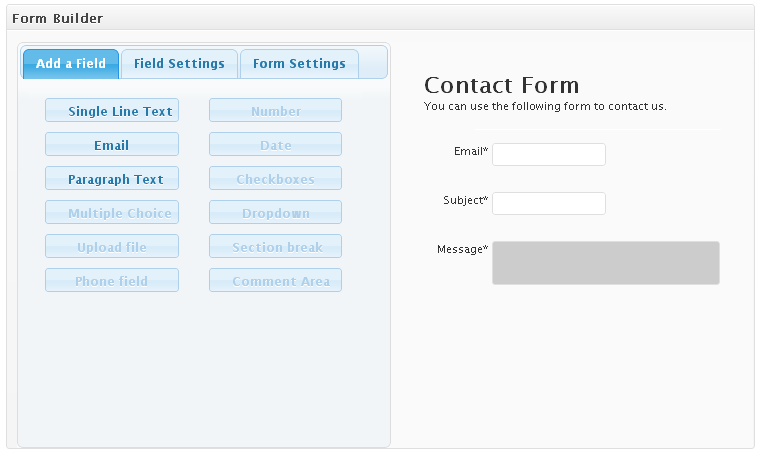
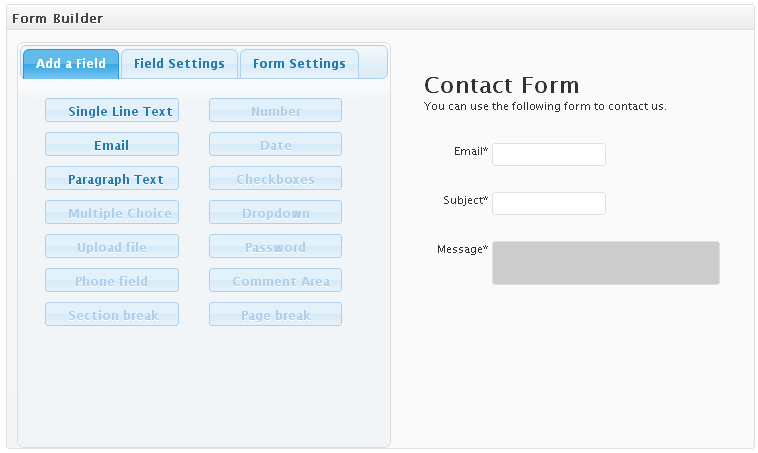
New features and validations options in the form builder.
git-svn-id: https://plugins.svn.wordpress.org/cp-easy-form-builder/trunk@744911 b8457f37-d9ea-0310-8a92-e5e31aec5664

Changed region(s): [[0.2731, 0.6799, 0.4551, 0.7108], [0.0607, 0.6799, 0.2427, 0.7108], [0.3034, 0.5254, 0.4248, 0.5563]]

diff --git a/js/fbuilderf.jquery.js b/js/fbuilderf.jquery.js
@@ -327,27 +327,33 @@ jQuery(function(){
           return value;
         }
         function showHideDep(){
+            function inArray(needle, haystack) {
+                for(var i = 0; i < haystack.length; i++) {
+                    if(haystack[i] == needle) return true;
+                }
+                return false;
+            }
+            var used = new Array();
             $(".depItem").each(function() {
                 var item = $(this);
-                var d = item.attr("dep").split(",");
-                for (i=0;i<d.length;i++)
-		        {
-		            if (d[i]!="")
+                try {
+                    var d = item.attr("dep").split(",");
+                    for (i=0;i<d.length;i++)
 		            {
-		                try {
-		                    if (item.is(':checked') || item.is(':selected'))
-		                    {
-		                        $("#"+d[i]).parents(".fields").css("display","");
-		                        $("#"+d[i]).attr("name",$("#"+d[i]).attr("name").replace("__dep",""));
-		                    }    
-		                    else
-		                    {
-		                        $("#"+d[i]).parents(".fields").css("display","none");
-		                        $("#"+d[i]).attr("name",$("#"+d[i]).attr("name")+"__dep");
-		                    }    
-		                }catch(e){}       
+		                if (d[i]!="" && !inArray(d[i],used))
+		                {
+		                    try {
+		                        if ((item.is(':checked') || item.is(':selected') ))
+		                        {
+		                            $("#"+d[i]).parents(".fields").css("display","");
+		                            used[used.length] = d[i];
+		                        }    
+		                        else
+		                            $("#"+d[i]).parents(".fields").css("display","none");
+		                    }catch(e){}       
+		                }
 		            }
-		        }
+		        }catch(e){}    
 		    });
         }
 		reloadItemsPublic = function() {
@@ -385,13 +391,7 @@ jQuery(function(){
                     $( "#"+items[i].name ).datepicker( "option", "minDate", items[i].minDate );
                     $( "#"+items[i].name ).datepicker( "option", "maxDate", items[i].maxDate );
                     $( "#"+items[i].name ).datepicker( "option", "defaultDate", items[i].defaultDate );
-				}	
-				$(".depItem").bind("click", function() {
-			        showHideDep();
-			    });
-			    $(".depItemSel").bind("change", function() {
-			        showHideDep();
-			    });
+				}
 			}
 			if (page>0)
 			{
@@ -454,7 +454,13 @@ jQuery(function(){
 				});//{required: true, range: [11, 22]}
 
 
-
+                $("#fieldlist").append('<script>jQuery(function(){CalcField.defaultCalc("#cp_calculatedfieldsf_pform");});</script>');	
+				$(".depItem").bind("click", function() {
+			        showHideDep();
+			    });
+			    $(".depItemSel").bind("change", function() {
+			        showHideDep();
+			    });
 			}
 		}
 		var showSettings= {
@@ -744,13 +750,18 @@ jQuery(function(){
 				ftype:"ftextarea",
 				predefined:"",
 				required:false,
-				size:"medium",
+				size:"medium",				
+				minlength:"",
+				maxlength:"",
 				display:function(){
 					return '<div class="fields" id="field-'+this.index+'"><div class="arrow ui-icon ui-icon-play "></div><div class="remove ui-icon ui-icon-trash "></div><label>'+this.title+''+((this.required)?"*":"")+'</label><div class="dfield"><textarea class="field disabled '+this.size+'">'+this.predefined+'</textarea><span class="uh">'+this.userhelp+'</span></div><div class="clearer"></div></div>';
 				},
 				show:function(){
-					return '<div class="fields '+this.csslayout+'" id="field-'+this.index+'"><label>'+this.title+''+((this.required)?"*":"")+'</label><div class="dfield"><textarea id="'+this.name+'" name="'+this.name+'" class="field '+this.size+((this.required)?" required":"")+'">'+this.predefined+'</textarea><span class="uh">'+this.userhelp+'</span></div><div class="clearer"></div></div>';
-				}
+					return '<div class="fields '+this.csslayout+'" id="field-'+this.index+'"><label>'+this.title+''+((this.required)?"*":"")+'</label><div class="dfield"><textarea id="'+this.name+'" name="'+this.name+'" minlength="'+(this.minlength)+'" maxlength="'+htmlEncode(this.maxlength)+'" class="field '+this.size+((this.required)?" required":"")+'">'+this.predefined+'</textarea><span class="uh">'+this.userhelp+'</span></div><div class="clearer"></div></div>';
+				},
+                showSpecialDataInstance: function() {
+                    return '<div class="column"><label>Min length/characters</label><br /><input name="sMinlength" id="sMinlength" value="'+this.minlength+'"></div><div class="column"><label>Max length/characters</label><br /><input name="sMaxlength" id="sMaxlength" value="'+this.maxlength+'"></div><div class="clearer"></div>';
+                }
 		});
 		var ffile=function(){};
 		$.extend(ffile.prototype,ffields.prototype,{
@@ -876,7 +887,7 @@ jQuery(function(){
 					            attrDep += ","+d[i][j];    
 					        }
 					    }
-						str += '<div class="'+this.layout+'"><input name="'+this.name+'[]" '+((classDep!="")?"dep=\""+attrDep+"\"":"")+' id="'+this.name+'" class="field'+classDep+' group '+((this.required)?" required":"")+'" value="'+htmlEncode(this.choicesVal[i])+'" type="checkbox" '+((this.choiceSelected[i])?"checked":"")+'/> <span>'+this.choices[i]+'</span></div>';
+						str += '<div class="'+this.layout+'"><input name="'+this.name+'[]" '+((classDep!="")?"dep=\""+attrDep+"\"":"")+' id="'+this.name+'" class="field depItem group '+((this.required)?" required":"")+'" value="'+htmlEncode(this.choicesVal[i])+'" type="checkbox" '+((this.choiceSelected[i])?"checked":"")+'/> <span>'+this.choices[i]+'</span></div>';
 					}	
 					return '<div class="fields '+this.csslayout+'" id="field-'+this.index+'"><label>'+this.title+''+((this.required)?"*":"")+'</label><div class="dfield">'+str+'<span class="uh">'+this.userhelp+'</span></div><div class="clearer"></div></div>';
 				},
@@ -945,7 +956,7 @@ jQuery(function(){
 					            attrDep += ","+d[i][j];    
 					        }
 					    }
-					    str += '<div class="'+this.layout+'"><input name="'+this.name+'" id="'+this.name+'" '+((classDep!="")?"dep=\""+attrDep+"\"":"")+' class="field'+classDep+' group '+((this.required)?" required":"")+'" value="'+htmlEncode(this.choicesVal[i])+'" type="radio" i="'+i+'"  '+((this.choicesVal[i]==this.choiceSelected)?"checked":"")+'/> <span>'+this.choices[i]+'</span></div>';
+					    str += '<div class="'+this.layout+'"><input name="'+this.name+'" id="'+this.name+'" '+((classDep!="")?"dep=\""+attrDep+"\"":"")+' class="field depItem group '+((this.required)?" required":"")+'" value="'+htmlEncode(this.choicesVal[i])+'" type="radio" i="'+i+'"  '+((this.choicesVal[i]==this.choiceSelected)?"checked":"")+'/> <span>'+this.choices[i]+'</span></div>';
 					}	
 					return '<div class="fields '+this.csslayout+'" id="field-'+this.index+'"><label>'+this.title+''+((this.required)?"*":"")+'</label><div class="dfield">'+str+'<span class="uh">'+this.userhelp+'</span></div><div class="clearer"></div></div>';  
 				},
@@ -1013,7 +1024,7 @@ jQuery(function(){
 					            attrDep += ","+d[i][j];    
 					        }
 					    }
-					    str += '<option '+((classDep!="")?"dep=\""+attrDep+"\"":"")+' '+((this.choiceSelected==this.choicesVal[i])?"selected":"")+' class="'+classDep+'" value="'+htmlEncode(this.choicesVal[i])+'">'+l[i]+'</option>';
+					    str += '<option '+((classDep!="")?"dep=\""+attrDep+"\"":"")+' '+((this.choiceSelected==this.choicesVal[i])?"selected":"")+' class="depItem" value="'+htmlEncode(this.choicesVal[i])+'">'+l[i]+'</option>';
 					}
 					return '<div class="fields '+this.csslayout+'" id="field-'+this.index+'"><label>'+this.title+''+((this.required)?"*":"")+'</label><div class="dfield"><select id="'+this.name+'" name="'+this.name+'" class="field '+classDep+'Sel '+this.size+((this.required)?" required":"")+'" >'+str+'</select><span class="uh">'+this.userhelp+'</span></div><div class="clearer"></div><div class="clearer"></div></div>';
 				},

diff --git a/css/stylepublic.css b/css/stylepublic.css
@@ -66,7 +66,7 @@ z-index:1000;
 .cpp_form { text-align:left}
 .pbreak{display:none}
 .pbreak.pb0{display:block}
-.pbreak .pbPrevious,.pbreak .pbNext,.pbSubmit{background:#ccc;display:block;float:left;cursor:pointer;margin:30px 10px 0px 0px;padding:5px 20px}
+.pbreak .pbPrevious,.pbreak .pbNext,.pbSubmit{background:#ccc;color:#000;display:block;float:left;cursor:pointer;margin:30px 10px 0px 0px;padding:5px 20px}
 .pbreak.pb0 .pbPrevious{display:none}
 .pbreak.pbEnd .pbNext{display:none}
 .ignore{border:5px solid black}

diff --git a/cp_easy_form_builder.php b/cp_easy_form_builder.php
@@ -235,14 +235,14 @@ function cp_easyform_get_public_form() {
         
         wp_localize_script('cp_easyform_builder_script', 'cp_easyform_fbuilder_config', array('obj'  	=>
         '{"pub":true,"messages": {
-        	                	"required": "'.str_replace(array('"', "'"),array('\\"', "\\'"),cp_easyform_get_option('vs_text_is_required', CP_EASYFORM_DEFAULT_vs_text_is_required)).'",
-        	                	"email": "'.str_replace(array('"', "'"),array('\\"', "\\'"),cp_easyform_get_option('vs_text_is_email', CP_EASYFORM_DEFAULT_vs_text_is_email)).'",
-        	                	"datemmddyyyy": "'.str_replace(array('"', "'"),array('\\"', "\\'"),cp_easyform_get_option('vs_text_datemmddyyyy', CP_EASYFORM_DEFAULT_vs_text_datemmddyyyy)).'",
-        	                	"dateddmmyyyy": "'.str_replace(array('"', "'"),array('\\"', "\\'"),cp_easyform_get_option('vs_text_dateddmmyyyy', CP_EASYFORM_DEFAULT_vs_text_dateddmmyyyy)).'",
-        	                	"number": "'.str_replace(array('"', "'"),array('\\"', "\\'"),cp_easyform_get_option('vs_text_number', CP_EASYFORM_DEFAULT_vs_text_number)).'",
-        	                	"digits": "'.str_replace(array('"', "'"),array('\\"', "\\'"),cp_easyform_get_option('vs_text_digits', CP_EASYFORM_DEFAULT_vs_text_digits)).'",
-        	                	"max": "'.str_replace(array('"', "'"),array('\\"', "\\'"),cp_easyform_get_option('vs_text_max', CP_EASYFORM_DEFAULT_vs_text_max)).'",
-        	                	"min": "'.str_replace(array('"', "'"),array('\\"', "\\'"),cp_easyform_get_option('vs_text_min', CP_EASYFORM_DEFAULT_vs_text_min)).'"
+        	                	"required": "'.str_replace(array('"'),array('\\"'),cp_easyform_get_option('vs_text_is_required', CP_EASYFORM_DEFAULT_vs_text_is_required)).'",
+        	                	"email": "'.str_replace(array('"'),array('\\"'),cp_easyform_get_option('vs_text_is_email', CP_EASYFORM_DEFAULT_vs_text_is_email)).'",
+        	                	"datemmddyyyy": "'.str_replace(array('"'),array('\\"'),cp_easyform_get_option('vs_text_datemmddyyyy', CP_EASYFORM_DEFAULT_vs_text_datemmddyyyy)).'",
+        	                	"dateddmmyyyy": "'.str_replace(array('"'),array('\\"'),cp_easyform_get_option('vs_text_dateddmmyyyy', CP_EASYFORM_DEFAULT_vs_text_dateddmmyyyy)).'",
+        	                	"number": "'.str_replace(array('"'),array('\\"'),cp_easyform_get_option('vs_text_number', CP_EASYFORM_DEFAULT_vs_text_number)).'",
+        	                	"digits": "'.str_replace(array('"'),array('\\"'),cp_easyform_get_option('vs_text_digits', CP_EASYFORM_DEFAULT_vs_text_digits)).'",
+        	                	"max": "'.str_replace(array('"'),array('\\"'),cp_easyform_get_option('vs_text_max', CP_EASYFORM_DEFAULT_vs_text_max)).'",
+        	                	"min": "'.str_replace(array('"'),array('\\"'),cp_easyform_get_option('vs_text_min', CP_EASYFORM_DEFAULT_vs_text_min)).'"
         	                }}'
         ));        
     }    
@@ -283,7 +283,7 @@ function cp_easyform_get_public_form() {
      <script type='text/javascript' src='<?php echo plugins_url('js/jquery.validate.js', __FILE__); ?>'></script>
      <script type='text/javascript'>
      /* <![CDATA[ */
-     var cp_easyform_fbuilder_config = {"obj":"{\"pub\":true,\"messages\": {\n    \t                \t\"required\": \"<?php echo str_replace(array('"', "'"),array('\\"', "\\'"),cp_easyform_get_option('vs_text_is_required', CP_EASYFORM_DEFAULT_vs_text_is_required));?>\",\n    \t                \t\"email\": \"<?php echo str_replace(array('"', "'"),array('\\"', "\\'"),cp_easyform_get_option('vs_text_is_email', CP_EASYFORM_DEFAULT_vs_text_is_email));?>\",\n    \t                \t\"datemmddyyyy\": \"<?php echo str_replace(array('"', "'"),array('\\"', "\\'"),cp_easyform_get_option('vs_text_datemmddyyyy', CP_EASYFORM_DEFAULT_vs_text_datemmddyyyy));?>\",\n    \t                \t\"dateddmmyyyy\": \"<?php echo str_replace(array('"', "'"),array('\\"', "\\'"),cp_easyform_get_option('vs_text_dateddmmyyyy', CP_EASYFORM_DEFAULT_vs_text_dateddmmyyyy));?>\",\n    \t                \t\"number\": \"<?php echo str_replace(array('"', "'"),array('\\"', "\\'"),cp_easyform_get_option('vs_text_number', CP_EASYFORM_DEFAULT_vs_text_number));?>\",\n    \t                \t\"digits\": \"<?php echo str_replace(array('"', "'"),array('\\"', "\\'"),cp_easyform_get_option('vs_text_digits', CP_EASYFORM_DEFAULT_vs_text_digits));?>\",\n    \t                \t\"max\": \"<?php echo str_replace(array('"', "'"),array('\\"', "\\'"),cp_easyform_get_option('vs_text_max', CP_EASYFORM_DEFAULT_vs_text_max));?>\",\n    \t                \t\"min\": \"<?php echo str_replace(array('"', "'"),array('\\"', "\\'"),cp_easyform_get_option('vs_text_min', CP_EASYFORM_DEFAULT_vs_text_min));?>\"\n    \t                }}"};
+     var cp_easyform_fbuilder_config = {"obj":"{\"pub\":true,\"messages\": {\n    \t                \t\"required\": \"<?php echo str_replace(array('"'),array('\\"'),cp_easyform_get_option('vs_text_is_required', CP_EASYFORM_DEFAULT_vs_text_is_required));?>\",\n    \t                \t\"email\": \"<?php echo str_replace(array('"'),array('\\"'),cp_easyform_get_option('vs_text_is_email', CP_EASYFORM_DEFAULT_vs_text_is_email));?>\",\n    \t                \t\"datemmddyyyy\": \"<?php echo str_replace(array('"'),array('\\"'),cp_easyform_get_option('vs_text_datemmddyyyy', CP_EASYFORM_DEFAULT_vs_text_datemmddyyyy));?>\",\n    \t                \t\"dateddmmyyyy\": \"<?php echo str_replace(array('"'),array('\\"'),cp_easyform_get_option('vs_text_dateddmmyyyy', CP_EASYFORM_DEFAULT_vs_text_dateddmmyyyy));?>\",\n    \t                \t\"number\": \"<?php echo str_replace(array('"'),array('\\"'),cp_easyform_get_option('vs_text_number', CP_EASYFORM_DEFAULT_vs_text_number));?>\",\n    \t                \t\"digits\": \"<?php echo str_replace(array('"'),array('\\"'),cp_easyform_get_option('vs_text_digits', CP_EASYFORM_DEFAULT_vs_text_digits));?>\",\n    \t                \t\"max\": \"<?php echo str_replace(array('"'),array('\\"'),cp_easyform_get_option('vs_text_max', CP_EASYFORM_DEFAULT_vs_text_max));?>\",\n    \t                \t\"min\": \"<?php echo str_replace(array('"'),array('\\"'),cp_easyform_get_option('vs_text_min', CP_EASYFORM_DEFAULT_vs_text_min));?>\"\n    \t                }}"};
      /* ]]> */
      </script>     
      <script type='text/javascript' src='<?php echo plugins_url('js/fbuilderf.jquery.js', __FILE__); ?>'></script>
